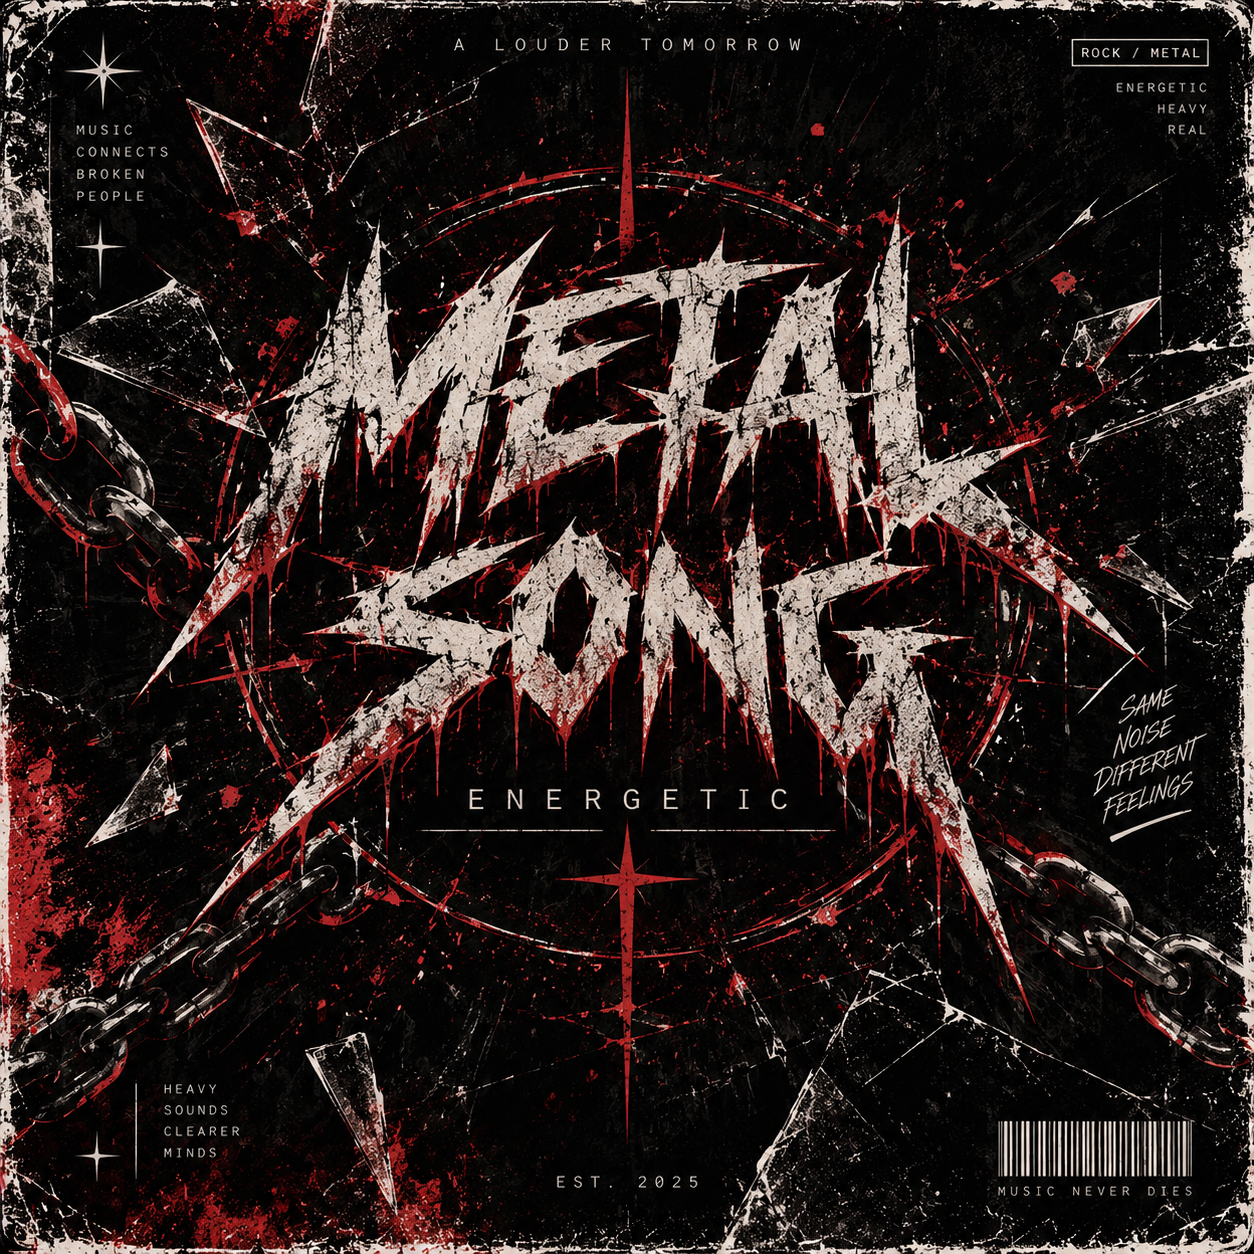
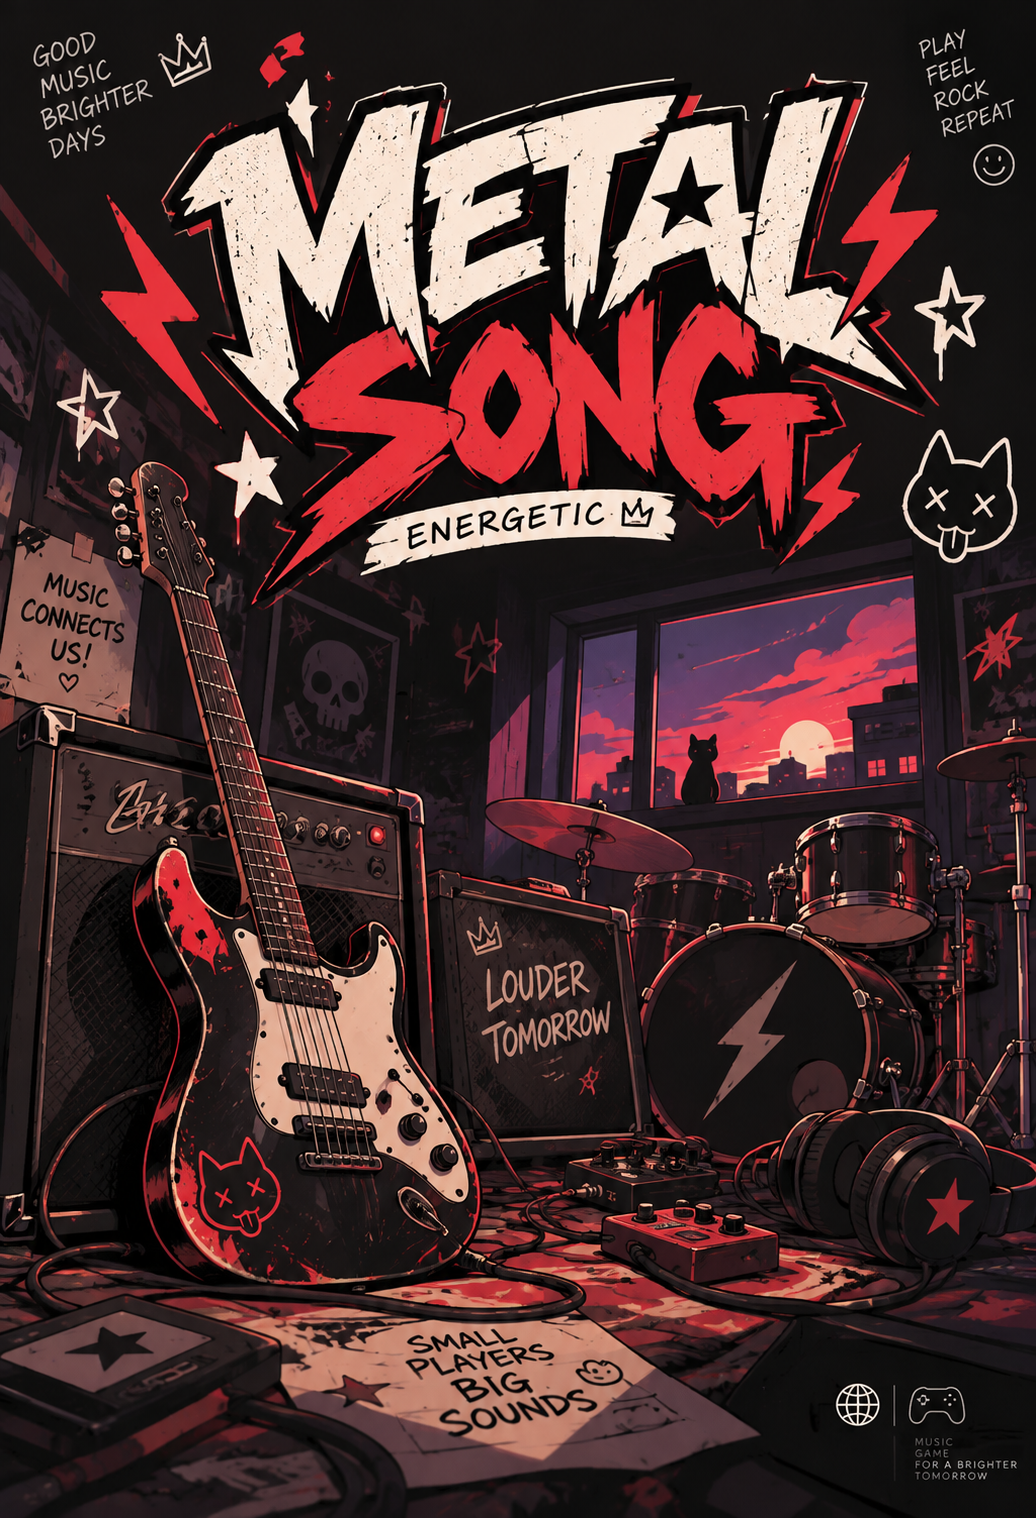
Обложка Metal Song – Energetic: постер; make-cover принимает портретные картинки как есть

diff --git a/tools/covers/make-cover.py b/tools/covers/make-cover.py
@@ -1,10 +1,11 @@
 """
 Card cover from a square picture: public/covers/<id>.webp, 730 x 1050 (the deck card's 292 x 420).
 
-The picture sits in the middle at full width; the space above and below is the picture's own edge
-reflected and blurred, darkening towards the card's edge, with the picture feathered into it, so
-the card reads as one image in the same colours. Square places (shop, result, duel) crop the middle
-back out with object-fit: cover.
+A square (or landscape) picture sits in the middle at full width; the space above and below is the
+picture's own edge reflected and blurred, darkening towards the card's edge, with the picture
+feathered into it, so the card reads as one image in the same colours. A portrait picture (a poster,
+aspect below 0.8) simply fills the card, cropped to its shape. Square places (shop, result, duel)
+crop the middle back out with object-fit: cover.
 
   python tools/covers/make-cover.py <picture> <track id> [--out public/covers]
 Run through `npm run assets:covers` (assets-src/covers-raw/<id>.png|jpg|webp -> public/covers/<id>.webp).
@@ -44,8 +45,23 @@ def extension(strip: Image.Image, seam_at_bottom: bool) -> Image.Image:
     return Image.composite(ext, dark, lit)
 
 
+def fill(im: Image.Image) -> Image.Image:
+    """Scale to cover the card and crop the middle."""
+    k = max(W / im.width, H / im.height)
+    im = im.resize((round(im.width * k), round(im.height * k)), Image.LANCZOS)
+    x, y = (im.width - W) // 2, (im.height - H) // 2
+    return im.crop((x, y, x + W, y + H))
+
+
 def make(src: Path, out: Path) -> None:
-    pic = square(Image.open(src).convert("RGB"))
+    src_im = Image.open(src).convert("RGB")
+    if src_im.width / src_im.height < 0.8:
+        card = fill(src_im)
+        out.parent.mkdir(parents=True, exist_ok=True)
+        card.save(out, "WEBP", quality=82, method=6)
+        print(f"{out} ({out.stat().st_size // 1024} KB, portrait)")
+        return
+    pic = square(src_im)
     pad = (H - W) // 2
     card = Image.new("RGB", (W, H))
     card.paste(extension(pic.crop((0, 0, W, pad)), True), (0, 0))
